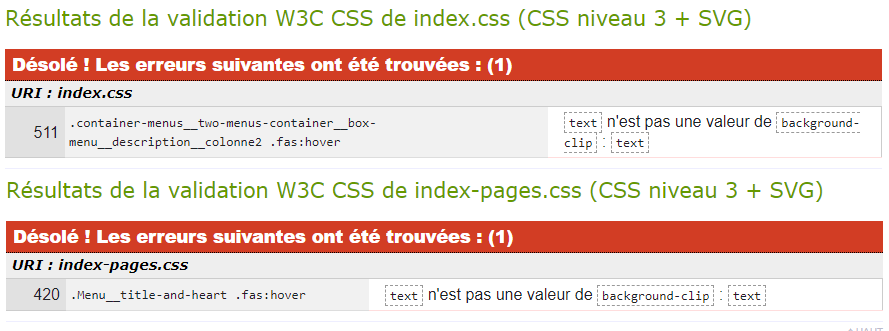
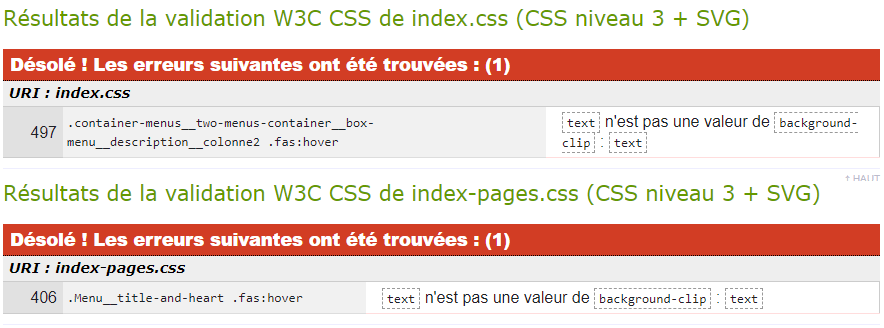
ajout du breakpoint phone dans les variables

diff --git a/scss/_variables.scss b/scss/_variables.scss
@@ -12,6 +12,7 @@ $box-shadows-hover: #a3a3a3;
 $breakpoints: (tablette: 768px);
 $fonctionnement-button-hover: #F5EDFF;
 
+$breakpoint-phone: "only screen and (min-width: 320px)";
 $breakpoint-tablet-min: "only screen and (min-width: 481px)";
 $breakpoint-tablet-mid: "only screen and (min-width: 768px)";
 $breakpoint-tablet-max: "only screen and (min-width: 992px)";

diff --git a/scss/index-pages.scss b/scss/index-pages.scss
@@ -78,7 +78,7 @@ p{
 }
 
 
-@media only screen and (min-width : 320px) {
+@media #{$breakpoint-phone} {
 
     header{
         display: flex;

diff --git a/scss/index.scss b/scss/index.scss
@@ -45,7 +45,7 @@ p{
 }
 
 
-@media only screen and (min-width : 320px) {
+@media #{$breakpoint-phone} {
 
 header{
     display: flex;
